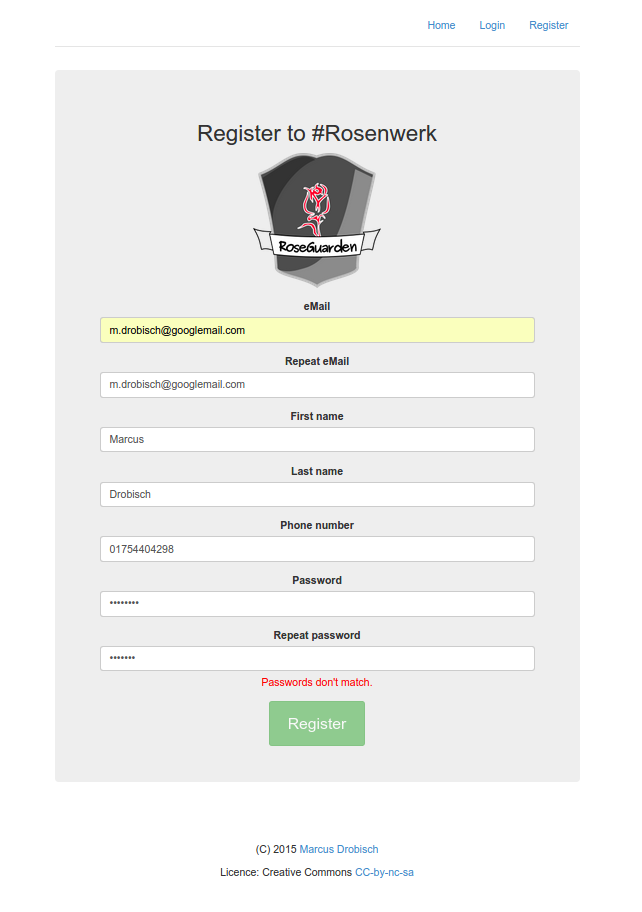
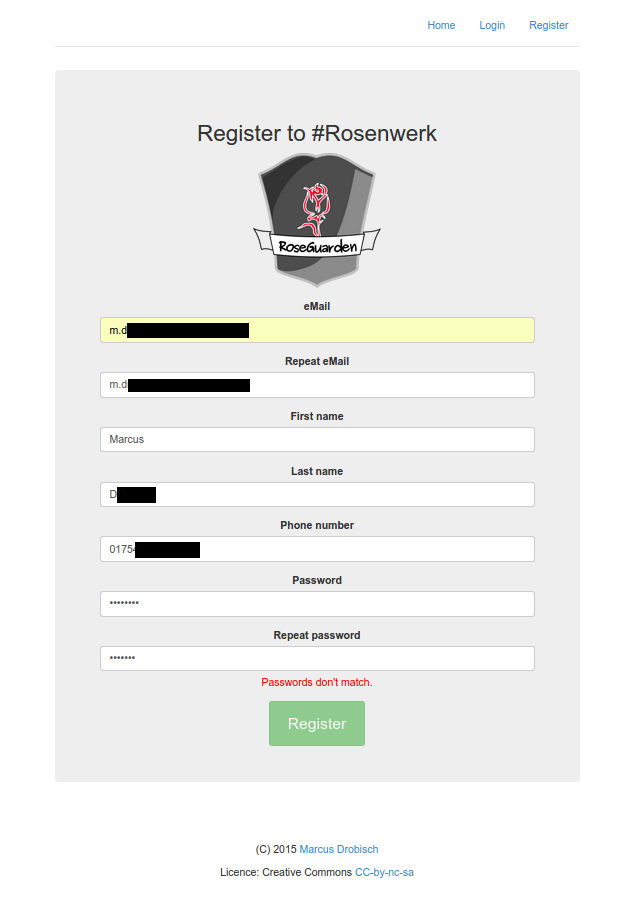
bugfix(doc): remove personal data from screenshots

diff --git a/client/partials/user/profile.html b/client/partials/user/profile.html
@@ -44,7 +44,7 @@
         <div class="form-group">
             <label class="col-xs-3 control-label">Valid period</label>
             <div class="col-xs-8">
-                <label class="control-label">10.08.2015 - 31.12.2018</label>
+                <label class="control-label">10.08.2015 - 10.08.2030</label>
             </div>
         </div>
 
@@ -59,7 +59,7 @@
         <div class="form-group">
             <label class="col-xs-3 control-label">Valid time</label>
             <div class="col-xs-8">
-                <label class="control-label">18:00 - 20:00</label>
+                <label class="control-label">00:00 - 23:59</label>
             </div>
         </div>
 

diff --git a/server/app/models.py b/server/app/models.py
@@ -18,11 +18,12 @@ class User(db.Model):
     cardPassword = db.Column(db.Text)
     license = db.Column(db.Integer)
     key = db.Column(db.Integer)
-    validKeyTimeStart = db.Column(db.DateTime)
-    validKeyTimeEnd = db.Column(db.DateTime)
-    validKeyPeriodStart = db.Column(db.DateTime)
-    validKeyPeriodEnd = db.Column(db.DateTime)
+    validKeyDateTimeStart = db.Column(db.DateTime)
+    validKeyDateTimeEnd = db.Column(db.DateTime)
     validKeyDays = db.Column(db.Integer)
+    lastLoginDateTime = db.Column(db.DateTime)
+    registerDateTime = db.Column(db.DateTime)
+
     def __repr__(self):
         return '<User %r>' % self.email
     def __init__(self, email, password, firstName, lastName, role = 0,phone = '0',license = 0, key = 0):
@@ -35,6 +36,9 @@ class User(db.Model):
         self.phone = phone
         self.key = key
         self.licenseM = license
+        self.validKeyDateTimeStart = (datetime.datetime.today()).replace(hour=0,minute=0,second=0,microsecond=0)
+        self.validKeyDateTimeEnd = (datetime.datetime.today() + datetime.timedelta(365*15)).replace(hour=23, minute=59, second=0, microsecond=0)
+        self.lastLoginDateTime = datetime.datetime.min
 
 class Setting(db.Model):
     id = db.Column(db.Integer, primary_key=True)
